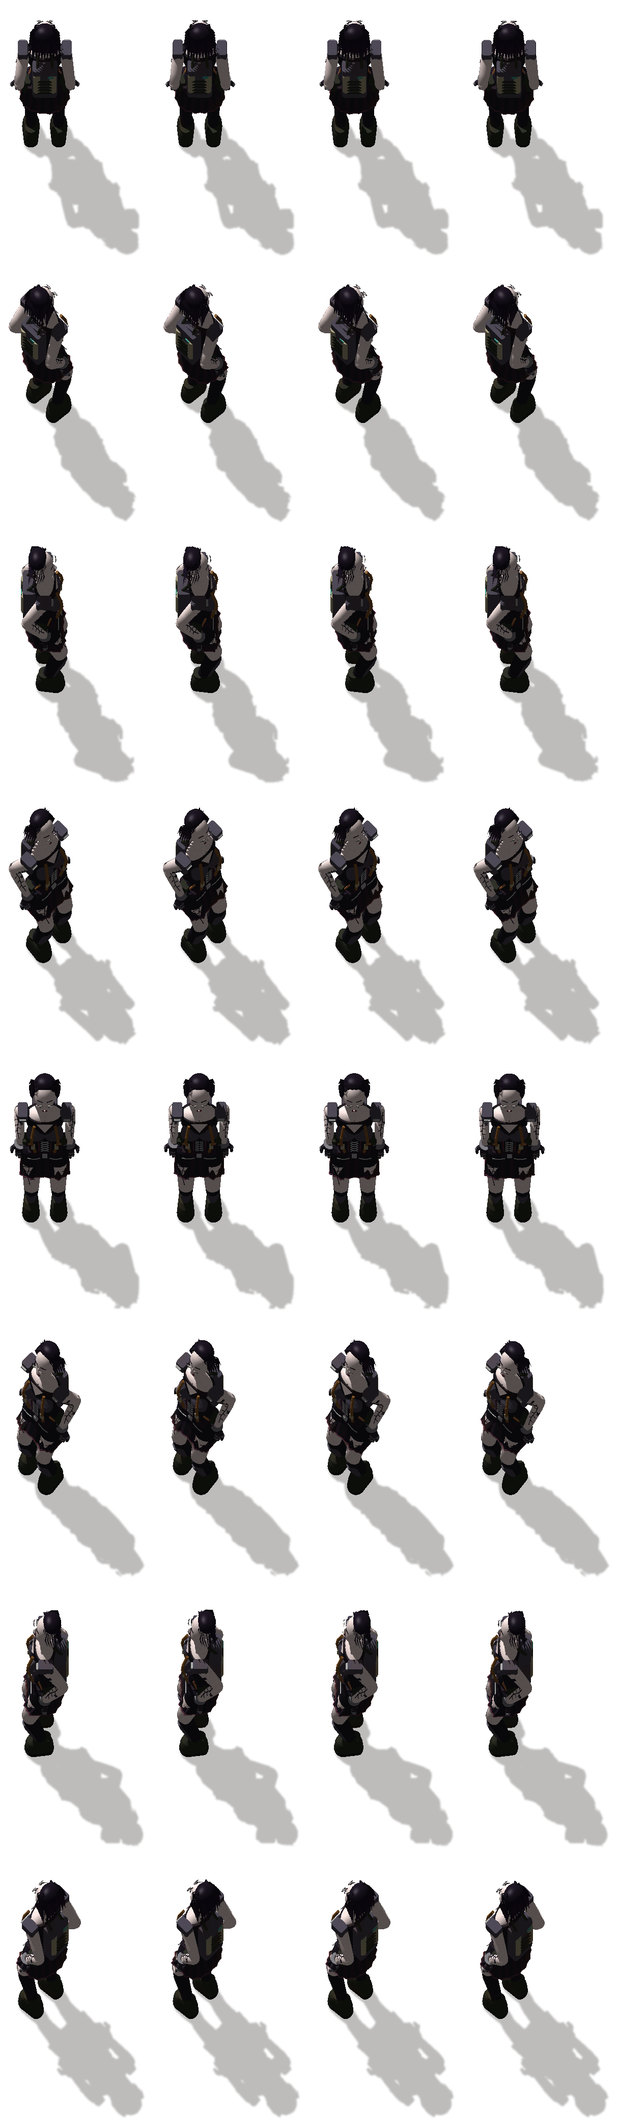
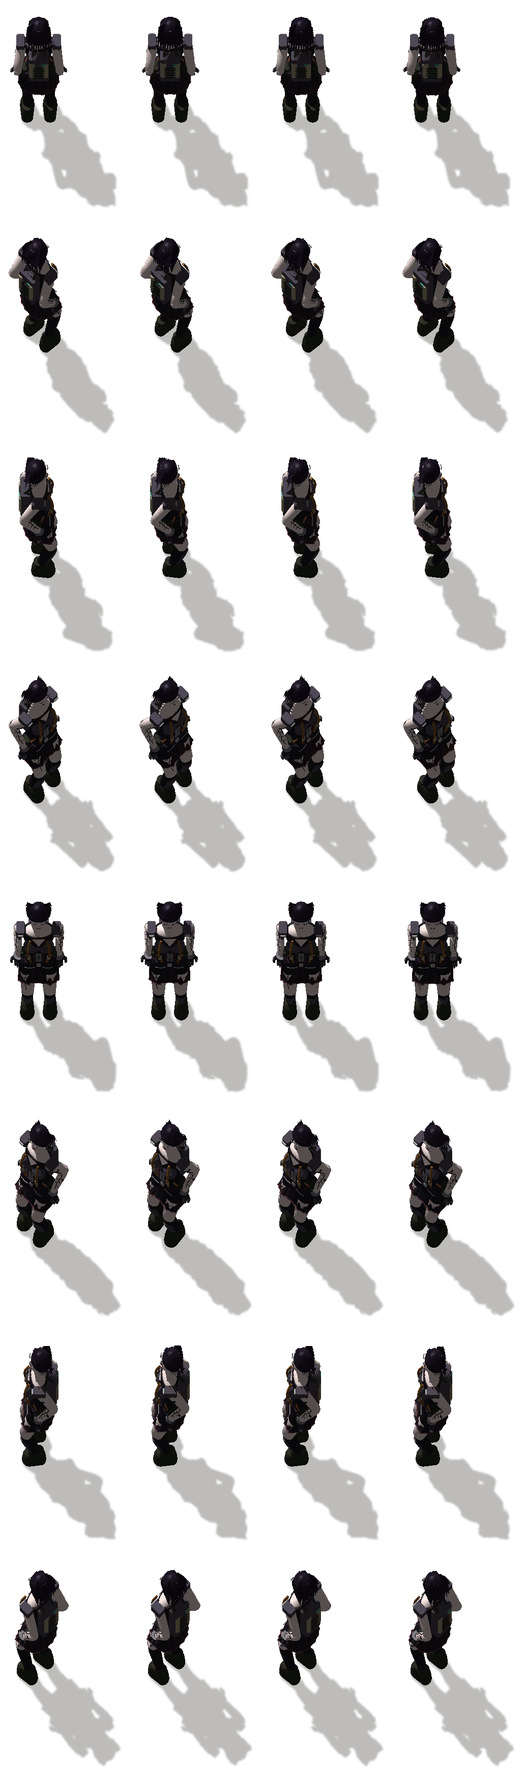
Document the industry expansion and the 0.10.0 release
Add the complement-not-replace rationale to DESIGN, the full balance tables
and the ore concentration chain to BALANCE, a Machine Age section to the
README, and release notes for 0.10.0.

diff --git a/second-nature/README.md b/second-nature/README.md
@@ -1,4 +1,4 @@
-![Nightglass - original explorer, solar railway and power sprites](https://github.com/Radukan/FC-Test/blob/v0.9.0-factorio-2.0/docs/art/nightglass-review.jpg)
+![Nightglass - original explorer, solar railway and power sprites](https://github.com/Radukan/FC-Test/blob/v0.10.0-factorio-2.0/docs/art/nightglass-review.jpg)
 
 # Second Nature · Restoration Record
 ### Stable Factorio 2.0 / Space Age restoration overhaul · v0.9.0 alpha
@@ -26,6 +26,38 @@ Windows: `%APPDATA%\Factorio\mods` · Linux: `~/.factorio/mods` · macOS: `~/Lib
 
 Stable only; experimental 2.1 builds are discontinued. Existing stable saves retain their factories, ecological values and terrain. They do **not** receive another cargo grant or a replacement defense kit. New habitat-readiness rules can temporarily demote an older mature world while its landscape is surveyed/recovered.
 
+## Machine Age 0.10.0
+
+Seventeen new industrial buildings, and a rule they all obey: **none of them is a strict upgrade of a vanilla machine.** Second Nature is meant to sit alongside Factorio's industry, not delete it, so every addition trades something real and a mature factory ends up running stock, clean and dirty machines side by side.
+
+### Two furnace families that disagree
+
+Sealed crucibles, oxygen-blown smelters and an electric arc refinery capture their own flue gas and emit almost nothing, but they smelt more slowly per ore and need an oxygen supply. Coke blast furnaces and reverberatory cupolas are cheap, roughly twice as fast on raw ore, and pour emissions and toxicity into the world the restoration model is scoring. Smelting dirty while you bootstrap is the correct opening. Leaving it that way is what stalls your stages.
+
+Captured flue gas is not free either: catalytic flue treatment turns it into activated carbon and a poisoned mesh you then have to reclaim.
+
+### Ore concentration as a factory project
+
+A wet ore mill grinds ore into pumpable slurry, a froth flotation bank floats the valuable mineral off and drops the rest as tailings, and a dewatering press squeezes froth into dry concentrate while handing most of the water back. Smelted in an oxygen-blown smelter, that returns about **2.8 plates per original ore** against 1.0 for direct smelting.
+
+It is deliberately not a research unlock that quietly doubles your output. It is three buildings, a water loop, an oxygen feed, a solid byproduct and roughly 2 MW before the first extra plate appears.
+
+### Mining and research sidegrades
+
+The electric auger and hydraulic mining head produce **no pollution at all** and never out-mine a stock drill. The deep core drill is genuinely faster and reaches further, and it pays with emissions, 3.5 MW and a seven-tile footprint. The field laboratory researches at 1.6x and draws more than five times a stock lab's power, accepting every science package the stock lab does.
+
+### Cleaning up after yourself
+
+Electrostatic smog precipitation removes 180 pollution a cycle and a direct air capture tower removes 520, the strongest cleanup in the mod. Both consume real catalysts, water and oxygen and leave residue to treat. Cleanup is a legitimate strategy. It is never the cheap one.
+
+### Fixes and art
+
+Power pole wires now attach to the insulators the pole sprite actually draws. Copper had been using the inherited vanilla attachment point, leaving every wire floating about half a tile above the pole.
+
+The explorer has been reduced to a vanilla character height. The body rendered about 1.95 tiles tall, roughly 25 percent oversized next to stock characters and machines, and now stands at 1.58. Her hairline was rebuilt as a continuous lofted scalp shell, because the previous crown began behind the brow and read as balding.
+
+Placeable buildings now carry a baseplate rule in their inventory icon, so they no longer read as interchangeable with loose materials.
+
 ## Restoration Record 0.9.0
 
 Nothing in this release changes a recipe, a research cost, a power rating or an ecological rate. It adds the three things a finished restoration campaign was still missing: a record of what you achieved, a way to learn the mod inside the game, and a factory you can hear.
@@ -38,7 +70,7 @@ The achievement window now tracks the restoration. **Twelve medallions are evalu
 
 These are modded achievements in Factorio's separate modded list, so nothing here touches vanilla or Steam progress. Awards belong to a **force**, not to whoever happened to be online: a planetary medal reaches every force with recorded work on that world, an offline player receives it on joining, and merged forces keep the earlier award time. A **Milestones** tab in the field station greys out what is still locked and shows how long ago the rest was earned.
 
-[Medallion sheet](https://github.com/Radukan/FC-Test/blob/v0.9.0-factorio-2.0/docs/art/achievement-review.jpg) · [Milestones, field guide and soundscape](https://github.com/Radukan/FC-Test/blob/v0.9.0-factorio-2.0/docs/MILESTONES.md)
+[Medallion sheet](https://github.com/Radukan/FC-Test/blob/v0.10.0-factorio-2.0/docs/art/achievement-review.jpg) · [Milestones, field guide and soundscape](https://github.com/Radukan/FC-Test/blob/v0.10.0-factorio-2.0/docs/MILESTONES.md)
 
 ### An in-game field guide
 
@@ -70,11 +102,11 @@ The original adult explorer has softer sculpted facial/skin shading, a continuou
 
 Scaling is constrained by genuine fuel, fluid, heat, geography, storage or material demand. Solar/wind nameplates are not continuous output. Geothermal units share regional budgets rather than multiplying free power when stacked; existing 0.7 wells retain their old baseline. Fission needs heat exchangers and turbines, and plasma conversion needs an actual fusion supply/coolant chain. Existing plant footprints are not enlarged in occupied factories.
 
-[Power roster, costs and scaling examples](https://github.com/Radukan/FC-Test/blob/v0.9.0-factorio-2.0/docs/POWER-ROSTER.md) · [Icon comparison sheet](https://github.com/Radukan/FC-Test/blob/v0.9.0-factorio-2.0/docs/art/icon-review.jpg) · [Power animation study](https://github.com/Radukan/FC-Test/blob/v0.9.0-factorio-2.0/docs/art/power-options-preview.gif) · [Explorer movement](https://github.com/Radukan/FC-Test/blob/v0.9.0-factorio-2.0/docs/art/locomotion-review.gif)
+[Power roster, costs and scaling examples](https://github.com/Radukan/FC-Test/blob/v0.10.0-factorio-2.0/docs/POWER-ROSTER.md) · [Icon comparison sheet](https://github.com/Radukan/FC-Test/blob/v0.10.0-factorio-2.0/docs/art/icon-review.jpg) · [Power animation study](https://github.com/Radukan/FC-Test/blob/v0.10.0-factorio-2.0/docs/art/power-options-preview.gif) · [Explorer movement](https://github.com/Radukan/FC-Test/blob/v0.10.0-factorio-2.0/docs/art/locomotion-review.gif)
 
 ### Solar railway retained
 
-The Sunseed, Heliograph and Daybreak locomotives remain solar-only, with locked onboard panels/batteries and day/night ceilings of 91/48, 147/91 and 194/130 km/h respectively. No ordinary fuel or factory-grid charging is accepted. Empty batteries provide no traction. Open a locomotive's GUI for its onboard energy monitor. See [the solar-energy contract](https://github.com/Radukan/FC-Test/blob/v0.9.0-factorio-2.0/docs/NIGHTGLASS.md).
+The Sunseed, Heliograph and Daybreak locomotives remain solar-only, with locked onboard panels/batteries and day/night ceilings of 91/48, 147/91 and 194/130 km/h respectively. No ordinary fuel or factory-grid charging is accepted. Empty batteries provide no traction. Open a locomotive's GUI for its onboard energy monitor. See [the solar-energy contract](https://github.com/Radukan/FC-Test/blob/v0.10.0-factorio-2.0/docs/NIGHTGLASS.md).
 
 ## Field Crew 0.6.2: auto-enabled inventory crews and planner tools
 
@@ -90,7 +122,7 @@ Flight positions now update **every tick**, with **16 directional 3D-rendered sp
 
 Packed vehicle construction/upgrades, specialized rail upgrades, repair and requested-module delivery remain outside this barebones crew. Loose items below ghosts are not silently collected: clear or explicitly mark them for deconstruction. Cancellation, permissions, quality, inventory overflow and old in-flight jobs are reconciled without new supply grants.
 
-[Field crew overview](https://github.com/Radukan/FC-Test/blob/v0.9.0-factorio-2.0/docs/art/field-crew-review.jpg) · [3D drone motion study](https://github.com/Radukan/FC-Test/blob/v0.9.0-factorio-2.0/docs/art/field-drone-preview.gif) · [Movement](https://github.com/Radukan/FC-Test/blob/v0.9.0-factorio-2.0/docs/art/locomotion-review.gif) · [Mining grip](https://github.com/Radukan/FC-Test/blob/v0.9.0-factorio-2.0/docs/art/mining-framing-preview.gif) · [Controls and safeguards](https://github.com/Radukan/FC-Test/blob/v0.9.0-factorio-2.0/docs/FIELD-CREW.md)
+[Field crew overview](https://github.com/Radukan/FC-Test/blob/v0.10.0-factorio-2.0/docs/art/field-crew-review.jpg) · [3D drone motion study](https://github.com/Radukan/FC-Test/blob/v0.10.0-factorio-2.0/docs/art/field-drone-preview.gif) · [Movement](https://github.com/Radukan/FC-Test/blob/v0.10.0-factorio-2.0/docs/art/locomotion-review.gif) · [Mining grip](https://github.com/Radukan/FC-Test/blob/v0.10.0-factorio-2.0/docs/art/mining-framing-preview.gif) · [Controls and safeguards](https://github.com/Radukan/FC-Test/blob/v0.10.0-factorio-2.0/docs/FIELD-CREW.md)
 
 ## Verdant Works: articulated movement and larger process plants
 
@@ -109,7 +141,7 @@ Process plants have been redesigned as different architectures rather than varia
 
 The new plants keep the same recipe identities, production speed, energy requirements and ecological rates. The increased footprint represents their internal process equipment, not a hidden throughput bonus. Their visible nozzles share the enlarged native fluid-port coordinates. Expanded render canvases retain complete cast shadows in every rotation, with compensated shifts so the ground pivot and pipe seams do not move.
 
-[Building contact sheet](https://github.com/Radukan/FC-Test/blob/v0.9.0-factorio-2.0/docs/art/ironbound-contact-sheet.jpg) · [Locomotion review](https://github.com/Radukan/FC-Test/blob/v0.9.0-factorio-2.0/docs/art/locomotion-review.gif) · [Mining review](https://github.com/Radukan/FC-Test/blob/v0.9.0-factorio-2.0/docs/art/mining-framing-preview.gif)
+[Building contact sheet](https://github.com/Radukan/FC-Test/blob/v0.10.0-factorio-2.0/docs/art/ironbound-contact-sheet.jpg) · [Locomotion review](https://github.com/Radukan/FC-Test/blob/v0.10.0-factorio-2.0/docs/art/locomotion-review.gif) · [Mining review](https://github.com/Radukan/FC-Test/blob/v0.10.0-factorio-2.0/docs/art/mining-framing-preview.gif)
 
 The voiced arrival, jukebox, biological defenses, inserter vector controls and endgame logistics remain. Source-art previews and kinematic tests do not replace graphical-client review of every native animation/movement combination.
 
@@ -123,7 +155,7 @@ Standby fans and navigation lights animate over a single static hull and ground 
 
 The refit preserves the original collision box, all 48 cargo slots, position, entity identity and rocket history. Surviving older landers receive the new art and the same permanent protection. Already removed old hulls are not recreated with free supplies.
 
-[Ship study](https://github.com/Radukan/FC-Test/blob/v0.9.0-factorio-2.0/docs/art/lander-review.jpg) · [Standby animation](https://github.com/Radukan/FC-Test/blob/v0.9.0-factorio-2.0/docs/art/lander-standby.gif) · [Continuation audit](https://github.com/Radukan/FC-Test/blob/v0.9.0-factorio-2.0/docs/CONTINUATION-AUDIT.md)
+[Ship study](https://github.com/Radukan/FC-Test/blob/v0.10.0-factorio-2.0/docs/art/lander-review.jpg) · [Standby animation](https://github.com/Radukan/FC-Test/blob/v0.10.0-factorio-2.0/docs/art/lander-standby.gif) · [Continuation audit](https://github.com/Radukan/FC-Test/blob/v0.10.0-factorio-2.0/docs/CONTINUATION-AUDIT.md)
 
 ### A genuinely wood-free beginning
 
@@ -234,11 +266,11 @@ Recover cargo → steam power → stone/silica/glass → Pioneer biology → nut
 
 ## Testing and development
 
-This is an **alpha**, not a claim of a completed balanced campaign. [Verification ledger](https://github.com/Radukan/FC-Test/blob/v0.9.0-factorio-2.0/docs/VERIFICATION.md) distinguishes offline/source tests, actual headless checks and outstanding graphical/full-game/multiplayer work. Releases require real stable-engine validation and a re-download/checksum comparison.
+This is an **alpha**, not a claim of a completed balanced campaign. [Verification ledger](https://github.com/Radukan/FC-Test/blob/v0.10.0-factorio-2.0/docs/VERIFICATION.md) distinguishes offline/source tests, actual headless checks and outstanding graphical/full-game/multiplayer work. Releases require real stable-engine validation and a re-download/checksum comparison.
 
-- [Full catalog](https://github.com/Radukan/FC-Test/blob/v0.9.0-factorio-2.0/docs/CATALOG.md) · [Balance equations](https://github.com/Radukan/FC-Test/blob/v0.9.0-factorio-2.0/docs/BALANCE.md) · [Model-only timing](https://github.com/Radukan/FC-Test/blob/v0.9.0-factorio-2.0/docs/SIMULATION.md)
-- [Milestones, field guide and soundscape](https://github.com/Radukan/FC-Test/blob/v0.9.0-factorio-2.0/docs/MILESTONES.md) · [Power roster](https://github.com/Radukan/FC-Test/blob/v0.9.0-factorio-2.0/docs/POWER-ROSTER.md)
-- [Campaign design](https://github.com/Radukan/FC-Test/blob/v0.9.0-factorio-2.0/docs/DESIGN.md) · [Development and art regeneration](https://github.com/Radukan/FC-Test/blob/v0.9.0-factorio-2.0/docs/DEVELOPING.md)
+- [Full catalog](https://github.com/Radukan/FC-Test/blob/v0.10.0-factorio-2.0/docs/CATALOG.md) · [Balance equations](https://github.com/Radukan/FC-Test/blob/v0.10.0-factorio-2.0/docs/BALANCE.md) · [Model-only timing](https://github.com/Radukan/FC-Test/blob/v0.10.0-factorio-2.0/docs/SIMULATION.md)
+- [Milestones, field guide and soundscape](https://github.com/Radukan/FC-Test/blob/v0.10.0-factorio-2.0/docs/MILESTONES.md) · [Power roster](https://github.com/Radukan/FC-Test/blob/v0.10.0-factorio-2.0/docs/POWER-ROSTER.md)
+- [Campaign design](https://github.com/Radukan/FC-Test/blob/v0.10.0-factorio-2.0/docs/DESIGN.md) · [Development and art regeneration](https://github.com/Radukan/FC-Test/blob/v0.10.0-factorio-2.0/docs/DEVELOPING.md)
 
 `python3 tools/package.py` builds the stable ZIP. The optional art toolchain is in `requirements-art.txt`; generated game binaries/saves/ZIPs stay out of Git.
 

diff --git a/docs/releases/v0.10.0.md b/docs/releases/v0.10.0.md
@@ -1,0 +1,47 @@
+## Second Nature 0.10.0: Machine Age
+
+**Stable Factorio 2.0.77 with Space Age, Quality and Elevated Rails. Alpha prerelease.**
+
+Download **`second-nature_0.10.0.zip`**, keep it zipped in the Factorio `mods` folder, and replace older Second Nature copies after backing up saves. Use the named mod ZIP, not GitHub's automatic source archive. A matching SHA-256 file is attached. Private repository downloads require GitHub sign-in.
+
+**Existing saves upgrade in place.** No existing recipe, research cost, power rating, footprint or ecological rate changed in this release. Every one of the 22 pre-existing machines keeps its exact collision box and entity name, so factories, blueprints and saved ecological values carry over untouched. The new content is additive and gated behind its own research.
+
+### Seventeen buildings that complement vanilla instead of replacing it
+
+Most overhaul mods answer "should I keep the vanilla machine?" with a flat no. This release deliberately refuses that. Every building added here trades something real, so the honest answer is "it depends", and a mature factory ends up running stock, clean and dirty machines side by side for different jobs.
+
+**Two furnace families that disagree.** Sealed crucible furnaces, oxygen-blown smelters and an electric arc refinery capture their own flue gas and emit almost nothing (0.2 to 0.5 pollution a minute), but they smelt more slowly per ore and need an oxygen supply. Coke blast furnaces and reverberatory cupolas are cheap, roughly twice as fast on raw ore, and emit 18 to 26 a minute with an explicit toxicity cost the restoration model reads. Smelting dirty while you bootstrap is the correct opening; leaving it that way is what stalls your stages.
+
+Captured flue gas is not free either. Catalytic flue treatment converts it into activated carbon and a poisoned catalyst mesh, which reclamation can recover.
+
+**Ore concentration as a factory project.** A wet ore mill grinds ore into pumpable slurry, a froth flotation bank floats the valuable mineral off and drops the rest as tailings, and a dewatering press squeezes froth into dry concentrate while returning most of the water. Smelted in an oxygen-blown smelter that yields about **2.8 plates per original ore**, against 1.0 for direct sealed smelting and 1.5 for the blast furnace.
+
+It is deliberately not a research unlock that quietly doubles output. It is three separate buildings, a water loop, an oxygen feed, a solid tailings byproduct and roughly 2 MW of draw before the first extra plate appears. Tailings bind back into stone in a kiln, or pile up.
+
+**Mining and research sidegrades.** The electric auger (0.35) and hydraulic mining head (0.5) produce no pollution at all and never out-mine a stock drill at 0.5. The deep core drill is genuinely faster at 2.6 with a wider search radius, and pays with emissions, 3.5 MW and a seven-tile footprint. The field laboratory researches at 1.6x while drawing 320 kW against a stock lab's 60 kW, and accepts every science package the stock lab does.
+
+**Cleaning up after yourself.** Electrostatic smog precipitation removes 180 pollution a cycle and a direct air capture tower removes 520, the strongest cleanup in the mod and thirteen times a scrubber. Both consume real catalysts, clean water and oxygen, and both leave residue to treat. Cleanup is a legitimate strategy. It is never the cheap one.
+
+Three new field guide entries cover the clean and dirty trade, the concentration line and atmospheric cleanup.
+
+### Fixes
+
+**Power pole wires now attach to the pole.** Our field pole uses original art whose crossarm sits at -1.9405 tiles, but the prototype had inherited vanilla's attachment point at -2.578, so every copper, red and green wire in the game floated roughly 0.58 tiles above the insulator it was supposedly bolted to. Attachment points are now derived from the pole mesh itself and regenerate with the art.
+
+### Art
+
+**The explorer is a normal size.** Her body rendered about 1.95 tiles tall, roughly 25 percent oversized next to vanilla characters and machines, which quietly made every building look small. She now stands at 1.58 tiles, inside the stock range, and a regression test prevents the drift from returning.
+
+**Her hairline was rebuilt.** The previous crown was a single flattened ball that began behind the brow, leaving a wide band of bare forehead that read as balding. It is now a continuous lofted scalp shell walked from the hairline over the crown to the nape, with the crown closed by a fan and extra clearance at the widest part of the skull so no scalp shows through.
+
+**Seventeen original procedural building models**, each with a mechanism that reads at a glance: tilting converter vessels, three-electrode arc hearths, rotating ball mills on trunnions, aerated flotation cells with froth launders, filter-plate presses that squeeze, a derrick over a rotary table, and sorbent contactors with induced-draft fans.
+
+**Placeable buildings are marked in the inventory** with a baseplate rule and footing ticks in the icon's bottom margin, so they no longer read as interchangeable with loose materials.
+
+### Audio
+
+The new furnaces, mills, presses, drills and laboratory each get a working sound matched to their mechanism rather than sharing the generic assembler loop. Every referenced file is a stock Factorio asset verified against the pinned 2.0.77 data; nothing is copied into this mod.
+
+### Verification
+
+New checks cover pole wire geometry (copper height, per-rotation signal separation, shadow offsets and generator reproducibility), the industry balance contract (clean recipes must stay slower per unit than dirty ones, green drills must never out-mine stock, cleanup must consume real inputs), save-compatible footprints, fluid port sufficiency, technology reachability, sprite canvas fit, and the explorer's height.

diff --git a/README.md b/README.md
@@ -26,6 +26,38 @@ Windows: `%APPDATA%\Factorio\mods` · Linux: `~/.factorio/mods` · macOS: `~/Lib
 
 Stable only; experimental 2.1 builds are discontinued. Existing stable saves retain their factories, ecological values and terrain. They do **not** receive another cargo grant or a replacement defense kit. New habitat-readiness rules can temporarily demote an older mature world while its landscape is surveyed/recovered.
 
+## Machine Age 0.10.0
+
+Seventeen new industrial buildings, and a rule they all obey: **none of them is a strict upgrade of a vanilla machine.** Second Nature is meant to sit alongside Factorio's industry, not delete it, so every addition trades something real and a mature factory ends up running stock, clean and dirty machines side by side.
+
+### Two furnace families that disagree
+
+Sealed crucibles, oxygen-blown smelters and an electric arc refinery capture their own flue gas and emit almost nothing, but they smelt more slowly per ore and need an oxygen supply. Coke blast furnaces and reverberatory cupolas are cheap, roughly twice as fast on raw ore, and pour emissions and toxicity into the world the restoration model is scoring. Smelting dirty while you bootstrap is the correct opening. Leaving it that way is what stalls your stages.
+
+Captured flue gas is not free either: catalytic flue treatment turns it into activated carbon and a poisoned mesh you then have to reclaim.
+
+### Ore concentration as a factory project
+
+A wet ore mill grinds ore into pumpable slurry, a froth flotation bank floats the valuable mineral off and drops the rest as tailings, and a dewatering press squeezes froth into dry concentrate while handing most of the water back. Smelted in an oxygen-blown smelter, that returns about **2.8 plates per original ore** against 1.0 for direct smelting.
+
+It is deliberately not a research unlock that quietly doubles your output. It is three buildings, a water loop, an oxygen feed, a solid byproduct and roughly 2 MW before the first extra plate appears.
+
+### Mining and research sidegrades
+
+The electric auger and hydraulic mining head produce **no pollution at all** and never out-mine a stock drill. The deep core drill is genuinely faster and reaches further, and it pays with emissions, 3.5 MW and a seven-tile footprint. The field laboratory researches at 1.6x and draws more than five times a stock lab's power, accepting every science package the stock lab does.
+
+### Cleaning up after yourself
+
+Electrostatic smog precipitation removes 180 pollution a cycle and a direct air capture tower removes 520, the strongest cleanup in the mod. Both consume real catalysts, water and oxygen and leave residue to treat. Cleanup is a legitimate strategy. It is never the cheap one.
+
+### Fixes and art
+
+Power pole wires now attach to the insulators the pole sprite actually draws. Copper had been using the inherited vanilla attachment point, leaving every wire floating about half a tile above the pole.
+
+The explorer has been reduced to a vanilla character height. The body rendered about 1.95 tiles tall, roughly 25 percent oversized next to stock characters and machines, and now stands at 1.58. Her hairline was rebuilt as a continuous lofted scalp shell, because the previous crown began behind the brow and read as balding.
+
+Placeable buildings now carry a baseplate rule in their inventory icon, so they no longer read as interchangeable with loose materials.
+
 ## Restoration Record 0.9.0
 
 Nothing in this release changes a recipe, a research cost, a power rating or an ecological rate. It adds the three things a finished restoration campaign was still missing: a record of what you achieved, a way to learn the mod inside the game, and a factory you can hear.

diff --git a/docs/DESIGN.md b/docs/DESIGN.md
@@ -77,3 +77,19 @@ The explorer is fitted and stylish but fully covered, with armor, movement, tool
 - All runtime dependencies resolve at control parsing; no runtime `require` or `on_load` mutation.
 - GUI children remain namespaced, and permanent-choice confirmation is cleared on closing.
 - Actual stable-engine checks remain mandatory before publishing. Full graphical/campaign/multiplayer balance is still alpha work.
+
+## Industry that argues with itself (0.10)
+
+Most overhaul mods answer "should I keep the vanilla machine?" with a flat no: the modded furnace is simply better, and the stock one becomes dead weight. Second Nature deliberately refuses that. The seventeen buildings added in 0.10 are designed so the honest answer is "it depends", and so a mature factory ends up running stock, clean and dirty machines side by side for different jobs.
+
+Three levers make the choice real:
+
+**Speed against emissions.** A coke blast furnace is about twice as fast per raw ore as a sealed crucible, and it is cheap to build. It also emits 18 pollution a minute against 0.2, and its recipes carry an explicit toxicity effect. The restoration model scores exactly that, so the blast furnace is genuinely the right early answer and genuinely the wrong late one. Nothing forces the switch: the pollution does.
+
+**Throughput against logistics.** Ore concentration returns 2.8 plates per ore instead of 1.0, which is a large prize. It is deliberately gated behind three separate buildings, a water loop, a tailings byproduct and an oxygen feed, so it reads as a factory project rather than a research unlock. A player who does not want that complexity can smelt ore directly forever and never feel punished.
+
+**Capability against cost.** The deep core drill is unambiguously more powerful than a stock drill. It is also seven tiles across, draws 3.5 MW and pollutes. The two green mining heads invert the same trade: no emissions at all, and no speed advantage whatsoever.
+
+The pollution-control buildings follow the same principle in reverse. Direct air capture removes 520 pollution a cycle, thirteen times a scrubber, which makes "clean up after yourself" a viable late strategy. But it costs 5 MW plus a consumable catalyst chain, so out-capturing a filthy factory is measurably more expensive than not dirtying the air in the first place. Cleanup is a legitimate strategy; it is never the cheap one.
+
+Everything here is enforced rather than asserted. `tests/test_industry.py` fails the build if a clean recipe ever becomes faster per unit than its dirty counterpart, if a green mining head out-mines a stock drill, or if a cleanup operation stops consuming real inputs.
